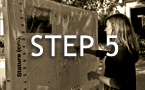
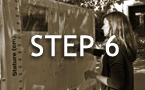
footer/header hightlights, thumbnail switched and highlighted

diff --git a/templates/footprints.html b/templates/footprints.html
@@ -19,45 +19,53 @@
 		<div class="instructions_container clearfix">
 			<div class="step_thumbnails">
 				<ul>
-					<li><img src="www/images/collab_step1_thumb.jpg"/></li>
-					<li><img src="www/images/collab_step2_thumb.jpg"/></li>
-					<li><img src="www/images/collab_step3_thumb.jpg"/></li>
-					<li><img src="www/images/collab_step4_thumb.jpg"/></li>
-					<li><img src="www/images/collab_step5_thumb.jpg"/></li>
-					<li><img src="www/images/collab_step6_thumb.jpg"/></li>
+					<li class="step1 selected"><img src="www/images/collab_step1_thumb.jpg"/></li>
+					<li class="step2"><img src="www/images/collab_step2_thumb.jpg"/></li>
+					<li class="step3"><img src="www/images/collab_step3_thumb.jpg"/></li>
+					<li class="step4"><img src="www/images/collab_step4_thumb.jpg"/></li>
+					<li class="step5"><img src="www/images/collab_step5_thumb.jpg"/></li>
+					<li class="step6"><img src="www/images/collab_step6_thumb.jpg"/></li>
 				</ul>
 			</div>
 			<div class="step_viewer">
 				<div class="step1 selected">
 					<h1>Step 1: </h1>
+					<p> Take off your shoes, trace the outline of your foot on the reverse of this sheet, and measure the total length of your foot with the provided ruler in cm.  Record your first name, age, and today’s date on the form.  Circle if you are male or female, and write your foot measurement in the space marked "Foot Length (cm)".</p>
 					<img src="www/images/collab_step1_full.jpg"/>
 				</div>
 				<div class="step2">
 					<h1>Step 2: </h1>
+					<p>Measure your height in cm on the scale and record this measurement in the space marked "Stature (cm)".</p>
 					<img src="www/images/collab_step2_full.jpg"/>
 				</div>
 				<div class="step3">
 					<h1>Step 3: </h1>
+					<p>Step into the basin of fingerpaint (or here, toepaint!).</p>
 					<img src="www/images/collab_step3_full.jpg"/>
 				</div>
 				<div class="step4">
 					<h1>Step 4: </h1>
+					<p>Walk carefully and normally for several steps across the butcher paper.</p>
 					<img src="www/images/collab_step4_full.jpg"/>
 				</div>
 				<div class="step5">
 					<h1>Step 5: </h1>
+					<p>Wash and dry your feet at the end, and then use the ruler to measure the length of your stride in cm.  You stride is the distance between the back of your heel on one step and the back of your heel on the second step of the same foot.  For example, take three steps starting with your right foot, and then measure the distance between your first step taken with the right foot and the second step taken with the right foot.  Record this measurement in the space marked "Stride Length (cm)".</p>
 					<img src="www/images/collab_step5_full.jpg"/>
 				</div>
 				<div class="step6">
 					<h1>Step 6: </h1>
+					<p>Plot your data on the graph by entering the information on the provided form.  On the graph, <b>RED</b> represents girls and <b>BLUE</b> represents boys.</p>
 					<img src="www/images/collab_step6_full.jpg"/>
 				</div>
 				<button id="previous_step">Previous</button>
 				<button id="next_step">Next</button>
 			</div> <!-- close step_viewer -->
 		</div> <!-- close instructions -->
+		<!--
 		<form class="left" method="get" action="exercise/footprints/data_sets">
 		  <input type="submit" value="Continue to Create/View a Data Set">
 		</form>
+		-->
 	</div>
 {% endblock %}

diff --git a/www/css/style.css b/www/css/style.css
@@ -20,9 +20,9 @@ div#content{
 	margin:auto;
 	background-color:#fff;
 	font-family:trebuchet ms;
-	-webkit-box-shadow:2px 2px 5px #63625b;
-	-moz-box-shadow:2px 2px 5px #63625b;
-	box-shadow:2px 2px 5px #63625b;
+	-webkit-box-shadow:3px 5px 5px #63625b;
+	-moz-box-shadow:3px 5px 5px #63625b;
+	box-shadow:3px 5px 5px #63625b;
 }
 
 header{
@@ -53,6 +53,9 @@ header nav ul li{
 header nav ul li a{
 	text-shadow: #1f1714 -1px -1px 1px;
 }
+header nav ul li a:hover{
+	color:white;
+}
 
 footer{
 	display:block;
@@ -67,14 +70,30 @@ footer div{
 	padding:10px 10px 20px 10px;
 	float:left;
 }
+footer div ul.first_footer_section li img{
+	padding-top:15px;
+}
+
 footer div h2{
 	font-size:1.2em;
 	padding-bottom:5px;
 	font-family:palatino;
 	font-weight:bold;
+	text-shadow: #1f1714 -1px -1px 1px;
 }
 footer div a{
-	color:#a9a48e;
+	color:#a99d7d;
+/*	color:#a9a48e; */
+	text-decoration:none;
+}
+footer div a:hover{
+	color:white;
+}
+footer img{
+	opacity:.7;
+}
+footer img:hover{
+	opacity:1;
 }
 div.content_header{
 	background-color:#1d3444;
@@ -84,6 +103,8 @@ div.content_header{
 }
 div.content_header h1{
 	display:inline;
+	font-family:palatino;
+	font-size:1.2em;
 }
 div.content_header h2{
 	display:inline;
@@ -93,7 +114,6 @@ div.generic_content{
 	padding:18px;
 }
 div.front_page_text{
-	text-align: justify;
 	padding:18px 36px;
 	text-indent: 1.5em;
 	-moz-column-count: 2;
@@ -116,6 +136,12 @@ div.front_page_text button{
     font-size:1.4em;
     cursor:pointer;
 	margin-top:15px;
+}
+
+div.front_page_text button:hover{
+	color:gray;
+}
+div.front_page_text a{
 	margin-left:25%;
 }
 
@@ -134,9 +160,27 @@ div.step_thumbnails{
 }
 div.step_thumbnails ul li{
 	cursor:pointer;
+	padding-top:20px;
+	opacity:.5;
+}
+div.step_thumbnails ul li:first-child{
+	padding-top:0px;
+}
+div.step_thumbnails ul li.selected{
+	opacity:1;
 }
 div.step_viewer{
 	float:left;
+	width:730px;
+}
+div.step_viewer h1{
+	font-size:1.5em;
+	padding-bottom:10px;
+}
+div.step_viewer img{
+	padding-top:10px;
+	width:100%;
+
 }
 div.step_viewer > div{
 	display:none;
@@ -157,6 +201,10 @@ div.step_viewer button{
     font-size:1.4em;
     cursor:pointer;
 	margin-top:20px;
+}
+div.step_viewer button:hover{
+	color:gray;
+
 }
 
 #previouse_step{
@@ -182,9 +230,30 @@ div.footprint_graph p.data_explanation{
 	-webkit-column-width: 50%;
 	-webkit-column-gap: 2em;
 }
+
+div.credits{
+	padding:20px;
+}
+div.credits h2{
+	font-size:1em;
+	padding:10px 0px;
+}
+div.credits h2 span{
+	font-size:1.2em;
+
+}
+
+
+
+
+
+
+
+
 .hide{
 	display:none;
 }
+
 /* http://perishablepress.com/press/2008/02/05/lessons-learned-concerning-the-clearfix-css-hack */
 
 .clearfix:after {

diff --git a/templates/layout.html b/templates/layout.html
@@ -25,14 +25,8 @@
 			<a href="/"><img title="eAnthro" src="www/images/logo-eanthro-header.png"/></a>
 			<nav>
 				<ul>
-					{% if user %}
-					{{ user.nickname }}
-						<li><a href="exercise/footprints/data_sets">My Data Sets</a></li>
-						<li><a href="exercise/footprints/graph">View Data Graph</a></li>
-						<li><a href="{{ logout_url|escape }}">Sign out</a></li>
-					{% else %}
-						<li><a href="{{ login_url|escape }}">Sign in</a></li>
-					{% endif %}
+					<!-- <li><a href="exercise/footprints/data_sets">My Data Sets</a></li> -->
+					<li><a href="exercise/footprints/graph">View Data Graph</a></li>
 				</ul>
 			</nav>
 		</header>
@@ -45,7 +39,7 @@
         </div>
 		<footer>
 			<div>
-				<ul>
+				<ul class="first_footer_section">
 					<li><h2><a href="faq">Frequently Asked Questions</a></h2></li>
 					<li><h2><a href="credits">e-Fossils Production Credits</a></h2></li>
 					<li><a href="http://www.utexas.edu/cola/depts/anthropology/"><img src="www/images/footer_anthropology_link.png"></a></li>
@@ -59,12 +53,12 @@
 			</div>
 			<div>
 				<h2>e-Anthro Digital Libraries List</h2>
-				<ul>
+				<ul class="footer_images">
 					<li><a href=""><img src="www/images/footer_eanthro_link.png"/></a></li>
 					<li><a href=""><img src="www/images/footer_eforensics_link.png"/></a></li>
-					<li><a href=""><img src="www/images/footer_efossils_link.png"/></a></li>
-					<li><a href=""><img src="www/images/footer_elucy_link.png"/></a></li>
-					<li><a href=""><img src="www/images/footer_eskeletons_link.png"/></a></li>
+					<li><a href="http://www.efossils.org"><img src="www/images/footer_efossils_link.png"/></a></li>
+					<li><a href="http://www.elucy.org"><img src="www/images/footer_elucy_link.png"/></a></li>
+					<li><a href="http://www.eskeletons.org"><img src="www/images/footer_eskeletons_link.png"/></a></li>
 				</ul>
 			</div>
 		</footer> <!-- end footer -->

diff --git a/templates/home.html b/templates/home.html
@@ -1,7 +1,12 @@
 {% extends "layout.html" %}
 
+{% block head-scripts %}
+	<script src="www/js/cross.js"></script>
+	<script src="www/js/front.js"></script>
+{% endblock %}
+
 {% block content %}
-	<img src="www/images/eA_home_banner1.jpg"/>
+	<img class="default_banner" src="www/images/eA_960x300_laettoli_banner.png " style="background: url(www/images/eA_960x300_modern_banner.jpg);"/>
 	<div class="front_page_text">
 		<p>Fossilized footprints found at Laetoli, Tanzania, in 1978 are among some of the most important pieces of the fossil record.  Dating to approximately 3.6 million years ago, the tracks were left in recently deposited volcanic ash by many different animals, including three individuals of the species Australopithecus afarensis, small statured, small brained bipedal hominins that lived in east Africa 4 – 2.8 Ma.   When the ash hardened, the footprints of these prehistoric humans were preserved.</p>
 		<p>The Laetoli Tracks, as they are known, offer a unique opportunity to explore how scientist use present day paradigms (patterns) to understand the past.   Scientists can analyze current patterns of behavior for living humans and apply them to the fossil record in order to better understand extinct hominins.   For example, we know based on current evidence that there is a general correlation (relationship) between stride length, foot length, and height.  The trend is that long strides and long feet belong to taller individuals, while short strides and short feet belong to smaller individuals.  The trends of long/long and short/short can be applied to the fossil record and you can test the hypothesis that A. afarensis was a small statured individual with some sexual dimorphism (i.e., males and females of the same species average different body sizes).</p>

diff --git a/www/js/instructions.js b/www/js/instructions.js
@@ -1,20 +1,26 @@
 $(document).ready(function(){
 	$('div.step_thumbnails ul li').click(function(){
-		var step = $(this).index() + 1;
-		$('div.step_viewer').children('div').removeClass('selected').filter('div.step'+step).addClass('selected');
+		if(!$(this).hasClass('selected')){
+			$(this).addClass('selected').siblings('li').removeClass('selected');	
+			var step = $(this).index() + 1;
+			$('div.step_viewer').children('div').removeClass('selected').filter('div.step'+step).addClass('selected');
+		}
 	});
 
 	$('div.step_viewer button').click(function(){
 		if($(this).attr('id') === 'next_step'){
 			if($('div.step_viewer div.selected').next('div').length != 0){
-				$('div.step_viewer div.selected').removeClass('selected').next('div').addClass('selected');
+				var next = $('div.step_viewer div.selected').removeClass('selected').next('div');
+				$('div.step_thumbnails ul li.'+next.attr('class')).addClass('selected').siblings('li').removeClass('selected');
+				next.addClass('selected');
 			}
 		} else{
 			if($('div.step_viewer div.selected').prev('div').length != 0){
-				$('div.step_viewer div.selected').removeClass('selected').prev('div').addClass('selected');
+				var prev = $('div.step_viewer div.selected').removeClass('selected').prev('div');
+				$('div.step_thumbnails ul li.'+prev.attr('class')).addClass('selected').siblings('li').removeClass('selected');
+				prev.addClass('selected');
 			}
 		}
-
 	});
 
 

diff --git a/templates/credits.html b/templates/credits.html
@@ -7,5 +7,15 @@
 {% endblock %}
 
 {% block content %}
-	<p>Stuart Ross</p>
+	<div class="credits">
+		<h2><span>Principal Investigator:</span> John Kappelman, PhD</h2>
+		<h2><span>Project Producer:</span> Joe TenBarge, Assistant Dean</h2>
+		<h2><span>Project Manager and Programmer:</span> Peter Keane</h2>
+		<h2><span>Project Developer:</span> Adrienne Witzel</h2>
+		<h2><span>Art Direction & Graphic Design:</span> Suloni Robertson</h2>
+		<h2><span>Photography and graphic design:</span> Student Technology Assistant, David Johannes</h2>
+		<h2><span>Illustrator:</span> Student Technology Assistant, Emma Whelan</h2>
+		<h2><span>Computer Programmer:</span> Stuart Ross</h2>
+		<h2><span>Special Thanks:</span>  Andrew Barr, Nicole Hauck, Amber Heard-Booth, Jaime Mata-Miguez, Lily Witzel &  Student Technology Assistants: Dustin Butler, Chris Gilette, Ashley Solano, Maxx Scholten, Christine Wu</h2>
+	</div>
 {% endblock %}

diff --git a/main.py b/main.py
@@ -58,7 +58,6 @@ def lsfit(x_set,y_set):
       payload=json_str,
       method=urlfetch.POST,
       headers={'Content-Type': 'application/json'})
-  print result
   answer = simplejson.loads(result.content);
   return [answer['gradient'],answer['yintercept'],answer['r']]
 
@@ -114,10 +113,16 @@ class ItemHandler(BaseRequestHandler):
     self.response.headers.add_header("Content-Type","text/plain")
 
 class HomeHandler(BaseRequestHandler):
-  @login_required
   def get(self):
-    user = users.GetCurrentUser()
     self.generate('home.html')
+
+class CreditsHandler(BaseRequestHandler):
+  def get(self):
+    self.generate('credits.html')
+
+class FaqHandler(BaseRequestHandler):
+  def get(self):
+    self.generate('faq.html')
 
 class IndexHandler(BaseRequestHandler):
   def get(self):
@@ -298,6 +303,8 @@ class FootprintsGraphHandler(BaseRequestHandler):
 def main():
   application = webapp.WSGIApplication([
     ('/', HomeHandler),
+    ('/credits', CreditsHandler),
+    ('/faq', FaqHandler),
     ('/item/(.*)', ItemHandler),
     ('/exercise/footprints', FootprintsHandler),
     ('/exercise/footprints/data_set/(.*).json', FootprintsDataSetJsonHandler),
